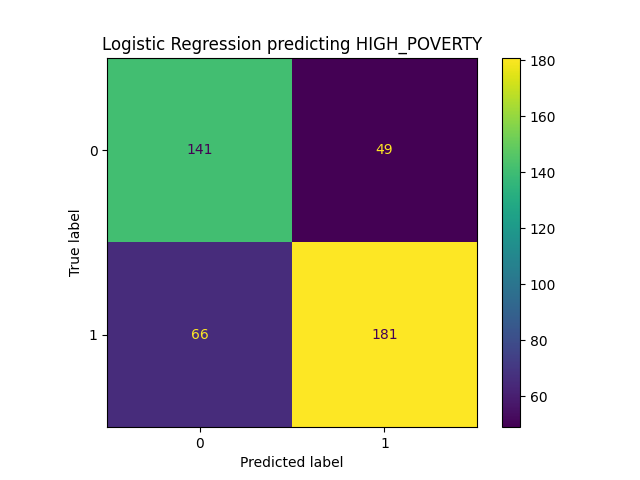
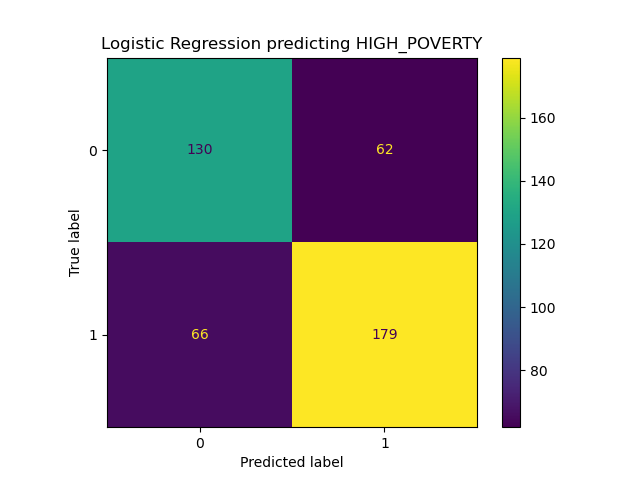
fc nn not working

diff --git a/fc_nn.py b/fc_nn.py
@@ -9,6 +9,12 @@ import tensorflow as tf
 
 from tensorflow.keras.layers import Dense, Flatten, Conv2D
 from tensorflow.keras import Model
+import util
+
+# from tensorflow.python import GradientTape
+from tensorflow.python.keras.losses import SparseCategoricalCrossentropy
+#from tensorflow.python.keras.optimizers import Adam
+
 
 ##################
 
@@ -22,40 +28,193 @@ class FCmodel(Model):
     def __init__(self):
         super(FCmodel, self).__init__()
 
-        self.f1 = Flatten()
+        # self.f1 = Flatten()
 
-        self.d1 = Dense(4000, activation = 'relu')
+        self.d1 = Dense(10, activation = 'relu')
         self.d2 = Dense(1, activation = 'sigmoid')
 
 
     def call(self, x):
-        unraveled = self.f1(x)
-        layer1 = self.d1(unraveled)
+        #  unraveled = self.f1(x)
+        layer1 = self.d1(x)
         layer2 = self.d2(layer1)
 
         return layer2 
 
-def two_layer_fc_test():
-    """Test function to make sure the dimensions are working"""
+# def two_layer_fc_test():
+#     """Test function to make sure the dimensions are working"""
 
-    # Create an instance of the model
-    fc_model = FCmodel()
+#     # Create an instance of the model
+#     fc_model = FCmodel()
 
-    # shape is: number of examples (mini-batch size), width, height, depth
-    #x_np = np.zeros((64, 32, 32, 3))
-    x_np = np.random.rand(64, 32, 32, 3)
+#     # shape is: number of examples (mini-batch size), width, height, depth
+#     #x_np = np.zeros((64, 32, 32, 3))
+#     x_np = np.random.rand(64, 32, 32, 3)
 
-    # call the model on this input and print the result
-    output = fc_model.call(x_np)
-    print(output)
+#     # call the model on this input and print the result
+#     output = fc_model.call(x_np)
+#     print(output)
 
-    for v in fc_model.trainable_variables:
-        print("Variable:", v.name)
-        print("Shape:", v.shape)
+#     for v in fc_model.trainable_variables:
+#         print("Variable:", v.name)
+#         print("Shape:", v.shape)
+
+def train_step(train_images, y_true, model, loss_fn):
+    """
+    A function to call the training step on a model by calculating loss and updating weights 
+    Inputs: Training data for this epoch (train_images), True labels for train data (y_true),
+        Model object (model), Loss function object - in this case SparseCategoricalCrossentropy (loss_fn)
+    """
+    print("Train Step reached.")
+
+    # Compute gradient w/ respect to weights
+    with tf.GradientTape() as g:
+        # Getting predicted labels from FC NN model
+        y_pred = model.call(train_images)
+
+        # Computing loss using SparseCategoricalCrossentropy 
+        loss = loss_fn(y_true, y_pred)
+
+    # Get current weights (aka Model.trainable_variables)
+    current_weights = model.trainable_variables
+
+    # Calculating gradient using the GradientTape earlier     
+    gradient = g.gradient(loss, current_weights) 
+
+    # Updating weights using the adam optimizer 
+    model.optimizer.apply_gradients(zip(gradient, current_weights))
+
+    # return the loss and predictions
+    return loss, y_pred
+
+def run_training(model, train_dset):
+    """
+    run training step for given model
+    """
+
+    # Setting up the optimizer and loss function 
+    scce = SparseCategoricalCrossentropy()
+    model.optimizer = tf.keras.optimizers.Adam() 
+
+    # set up metrics for training and validation 
+    train_loss = tf.keras.metrics.Mean(name='train_loss')
+    train_accuracy = tf.keras.metrics.SparseCategoricalAccuracy( \
+        name='train_accuracy')
+
+    # val_loss = tf.keras.metrics.Mean(name='val_loss')
+    # val_accuracy = tf.keras.metrics.SparseCategoricalAccuracy( \
+    #     name='val_accuracy')
+   
+    train_accuracy_arr = []
+    # val_accuracy_arr = []
+
+    epoch = 10
+    # Run the training step once for every epoch, calculating loss and accuracy 
+    for i in range(epoch):
+        print(f'Epoch {i}')
+        for images, labels in train_dset:
+            loss, predictions = train_step(images, labels, model, scce)
+            train_loss(loss)
+            train_accuracy(labels, predictions)
+
+        # Printing the outputs
+        template = 'Epoch {}, Loss: {}, Accuracy: {}, Val Loss: {}, Val Accuracy: {}'
+        print(template.format(i+1,
+                            train_loss.result(),
+                            train_accuracy.result()*100))
+        print("printing train acc")
+        print(train_accuracy.result().numpy().item(0)*100)
+        # print("printing val acc")
+        # print(val_accuracy.result().numpy().item(0)*100)
+        # Adding values to output arrays
+        train_accuracy_arr.append(train_accuracy.result().numpy().item(0)*100)
+        # val_accuracy_arr.append(val_accuracy.result().numpy().item(0)*100)
+
+        # Reset the metrics for the next epoch
+        train_loss.reset_states()
+        train_accuracy.reset_states()
+        # val_loss.reset_states()
+        # val_accuracy.reset_states()
+    return train_accuracy_arr
+
+# def run_model(csv_name, label_name):
+#     X_train, X_test, y_train, y_test = util.process_txt(csv_name, label_name)
+
+#     print("Getting test and train datasets...")
+#     train_dset = tf.data.Dataset.from_tensor_slices((X_train, y_train)).shuffle(buffer_size=10)
+#     # val_dset = tf.data.Dataset.from_tensor_slices((X_val, y_val)).batch(64)
+#     test_dset = tf.data.Dataset.from_tensor_slices((X_test, y_test))
+#     print("Finished getting test and train data!")
+
+#     for i in train_dset: 
+#         print(i.numpy()) 
+
+
+#     fc_model = FCmodel()
+#     # fc_nn.train_step(train_dset)
+
+#     print("Running FC model...")
+#     fc_model = FCmodel()
+#     fc_train_acc = run_training(fc_model, train_dset)
+#     print("Finished running FC model!")
+    
+
+    # logreg.fit(X_train, y_train)
+
+    # y_pred = logreg.predict(X_test)
+
+    # accuracyLog = accuracy_score(y_test, y_pred)
+    # print("Logistic Regression accuracy: ", accuracyLog*100, "%")
+
+    # cnf_matrix = metrics.confusion_matrix(y_test, y_pred)
+    # print(cnf_matrix)
+    # disp = ConfusionMatrixDisplay(confusion_matrix=cnf_matrix, display_labels=logreg.classes_)
+    # disp.plot()
+    # plt.title(f'Logistic Regression predicting {label_name}')
+    # plt.savefig(f'cm_logreg_{label_name}.png')
+
+
 
 def main():
     # test two layer function
-    two_layer_fc_test()
+    # two_layer_fc_test()
+    # opts = util.parse_args()
+    # label_col = opts.label_col
+    # print("Calling run_model...")
+    # run_model("NeighborhoodFoodRetail.csv", label_col)
+    # print("Run model call finished!")
+
+    label_col = ["SUPERMARKET_ACCESS", "HIGH_POVERTY"] #opts.label_col
+    prob_pos = [] 
+    df = util.process_txt("NeighborhoodFoodRetail.csv")
+    for i in label_col:
+        X_train, X_test, y_train, y_test = util.split_data(df, i)
+        #  X_train, X_test, y_train, y_test = util.process_txt(csv_name, label_name)
+
+        print("Getting test and train datasets...")
+        train_dset = tf.data.Dataset.from_tensor_slices((X_train, y_train)).shuffle(buffer_size=1000).batch(64)
+        # val_dset = tf.data.Dataset.from_tensor_slices((X_val, y_val)).batch(64)
+        test_dset = tf.data.Dataset.from_tensor_slices((X_test, y_test))
+        print("Finished getting test and train data!")
+
+        for i in train_dset: 
+            print(i.numpy()) 
+
+
+        fc_model = FCmodel()
+        # fc_nn.train_step(train_dset)
+
+        print("Running FC model...")
+        fc_model = FCmodel()
+        fc_train_acc = run_training(fc_model, train_dset)
+        print("Finished running FC model!")
+    
+        # prob_pos.append(run_model(X_train, X_test, y_train, y_test, i))
+
+    # visual(prob_pos[0], prob_pos[1], label_col)
+
+
+    
 
 if __name__ == "__main__":
     main()

diff --git a/util.py b/util.py
@@ -9,14 +9,14 @@ import optparse
 import sys
 import numpy as np
 
-def process_txt(csv_name, label_col):
+def process_txt(csv_name):
     """ 
     Helper function to process a text file specified by txt_name into encoded text
     """
     
     df = pd.read_csv(csv_name, na_filter= True, header=0)
     print(df.columns)
-    df = df.drop(columns=["HPSS_ACCESS", "GEOID10", "OBJECTID", "Shape__Area", "Shape__Length", "PCT_POVERTY"]) # drop due to the label being "moderate to high" too complicated to binarize. 
+    df = df.drop(columns=["HPSS_ACCESS", "GEOID10", "OBJECTID", "Shape__Area", "Shape__Length", "PCT_POVERTY", "HPSS_ACCESS"]) # drop due to the label being "moderate to high" too complicated to binarize. 
     print(df.columns)
     for col in df.columns:
         # print(col)
@@ -24,54 +24,43 @@ def process_txt(csv_name, label_col):
         # print(df[col][1] == 'Yes' or df[col][1] == 'No' )
         if df[col][1] == 'Yes' or df[col][1] == 'No':
             df[col] = (df[col] == 'Yes').astype(int)
+    # print(df.shape)
     df = df.dropna() # drop na values. 
-    #print(df.shape)
-    # print(df.dropna().shape)
-    #print(np.any(np.isnan(df)))
-    #print(np.all(np.isfinite(df)))
+    # shuffle the datafram
+
+    print(df)
+    df = df.sample(frac= 1)
+    print(df)
+
+    return df
+
+def split_data(df, label_col):
+
     y = df[label_col]
     X = df.loc[:, df.columns != label_col]
-    X_train, X_test, y_train, y_test = train_test_split(X, y, test_size=0.33, random_state=42)
-
-    # train_dset = tf.data.Dataset.from_tensor_slices((X_train, y_train)).shuffle(buffer_size=10000).batch(64)
-    # val_dset = tf.data.Dataset.from_tensor_slices((X_val, y_val)).batch(64)
-    # test_dset = tf.data.Dataset.from_tensor_slices((X_test, y_test)).batch(64)
-    
-
-    # splitting the dataset into train, val, and test subsets 
-    # train_index = int(df.shape[0]*0.8)
-    # val_index = int(df.shape[0]*0.9)
-
-    # train = encode_txt[:train_index]
-    # val = encode_txt[train_index:val_index]
-    # test = encode_txt[val_index:]
-
-    #train = train.shuffle()
-    # print(X_train.isnull())
-    print(X_train)
-    print(y_train)
+    X_train, X_test, y_train, y_test = train_test_split(X, y, test_size=0.33, shuffle=False )
 
     return X_train, X_test, y_train, y_test
 
-def parse_args():
-    """Parse command line arguments (train and test arff files)."""
-    parser = optparse.OptionParser(description='run emsemble method')
+# def parse_args():
+#     """Parse command line arguments (train and test arff files)."""
+#     parser = optparse.OptionParser(description='run emsemble method')
 
-    parser.add_option('-r', '--train_filename', type='string', help='path to' +\
-        ' train arff file')
-    parser.add_option('-e', '--test_filename', type='string', help='path to' +\
-        ' test arff file')
-    parser.add_option('-l', '--label_col', type='string', help='CSV column to treat as label')
+#     parser.add_option('-r', '--train_filename', type='string', help='path to' +\
+#         ' train arff file')
+#     parser.add_option('-e', '--test_filename', type='string', help='path to' +\
+#         ' test arff file')
+#     parser.add_option('-l', '--label_col', type='string', help='CSV column to treat as label')
 
 
-    (opts, args) = parser.parse_args()
+#     (opts, args) = parser.parse_args()
 
-    mandatories = ['label_col']
-    for m in mandatories:
-        if not opts.__dict__[m]:
-            print('mandatory option ' + m + ' is missing\n')
-            parser.print_help()
-            sys.exit()
+#     # mandatories = ['label_col']
+#     # for m in mandatories:
+#     #     if not opts.__dict__[m]:
+#     #         print('mandatory option ' + m + ' is missing\n')
+#     #         parser.print_help()
+#     #         sys.exit()
 
-    return opts
+#     return opts
 

diff --git a/log_reg.py b/log_reg.py
@@ -15,15 +15,17 @@ from sklearn.metrics import confusion_matrix, ConfusionMatrixDisplay
 
     # label_col = util.opt
 
-def run_model(csv_name, label_name):
-    X_train, X_test, y_train, y_test = util.process_txt(csv_name, label_name)
+def run_model(X_train, X_test, y_train, y_test, label_name):
+    
     logreg = LogisticRegression(random_state=16, max_iter=500)
     logreg.fit(X_train, y_train)
 
     y_pred = logreg.predict(X_test)
 
+    prob_pos = logreg.predict_proba(X_test)
+
     accuracyLog = accuracy_score(y_test, y_pred)
-    print("Logistic Regression accuracy: ", accuracyLog*100, "%")
+    print(f'Logistic Regression accuracy {label_name}:', accuracyLog*100, "%")
 
     cnf_matrix = metrics.confusion_matrix(y_test, y_pred)
     print(cnf_matrix)
@@ -32,15 +34,32 @@ def run_model(csv_name, label_name):
     plt.title(f'Logistic Regression predicting {label_name}')
     plt.savefig(f'cm_logreg_{label_name}.png')
 
+    return prob_pos
+
 
     # train_step(logreg, X_train, X_test, y_train,
 
+def visual(prob_pos_A, prob_pos_B, labels):
+    plt.clf()
+    plt.scatter(prob_pos_A, prob_pos_B)
+    plt.xlabel(labels[0])
+    plt.ylabel(labels[1])
+    plt.title("Probability of Positive by Label Predicted")
+
+    plt.savefig("probpos.png")
 
 def main():
     # test two layer function
-    opts = util.parse_args()
-    label_col = opts.label_col
-    run_model("NeighborhoodFoodRetail.csv", label_col)
+    # opts = util.parse_args()
+    label_col = ["SUPERMARKET_ACCESS", "HIGH_POVERTY"] #opts.label_col
+    prob_pos = [] 
+    df = util.process_txt("NeighborhoodFoodRetail.csv")
+    for i in label_col:
+        X_train, X_test, y_train, y_test = util.split_data(df, i)
+        prob_pos.append(run_model(X_train, X_test, y_train, y_test, i))
 
+    visual(prob_pos[0], prob_pos[1], label_col)
+
+    
 if __name__ == "__main__":
     main()
